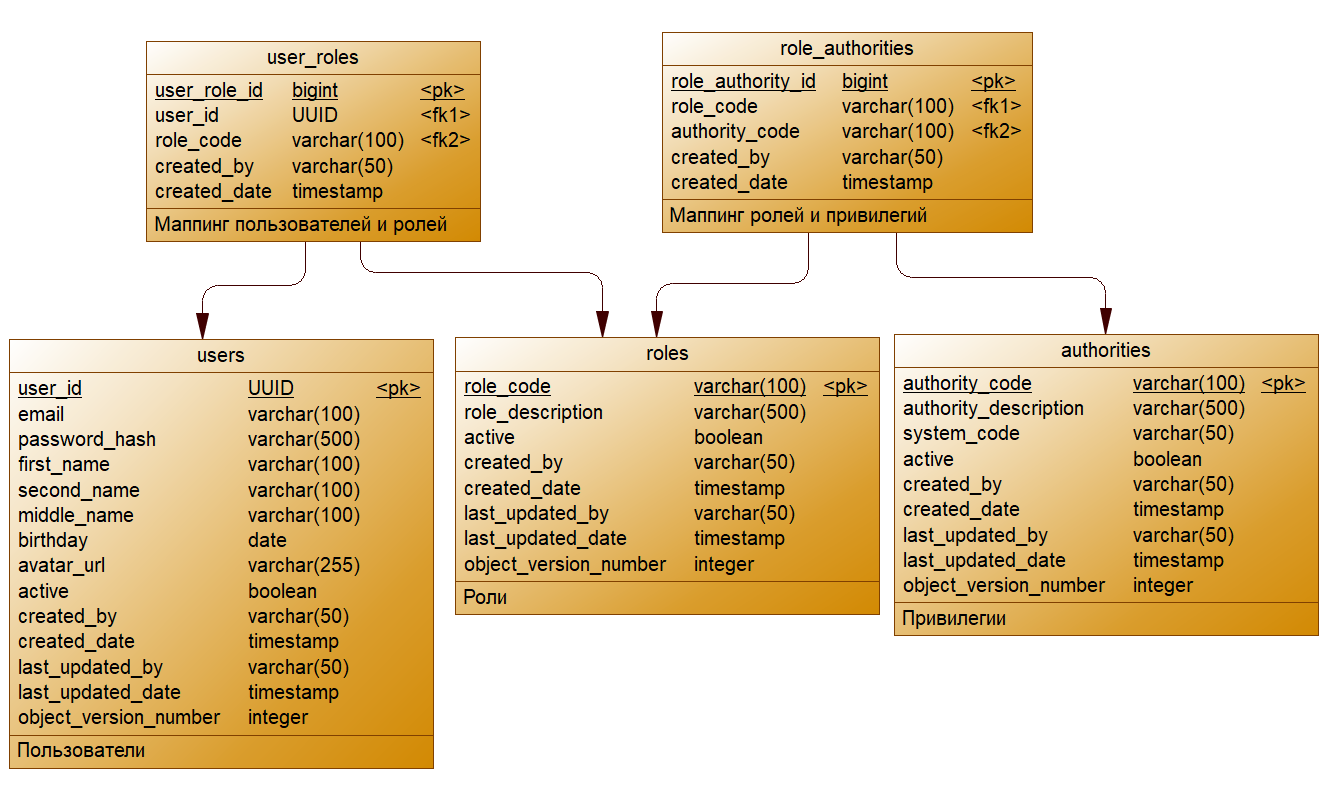
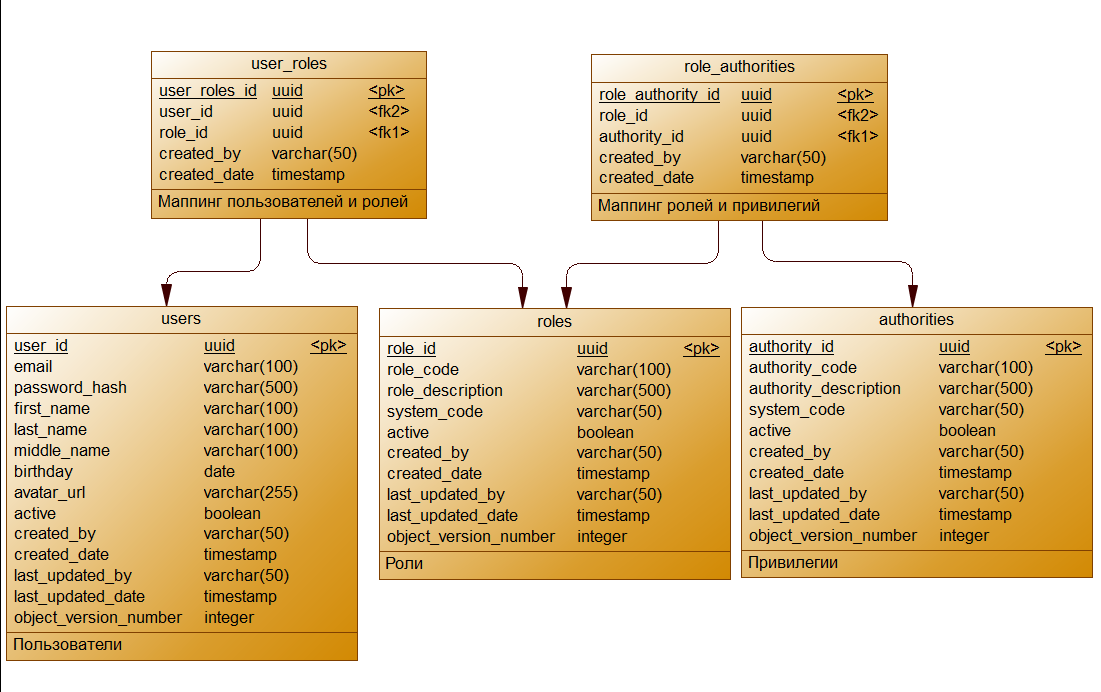
023. created a role model

diff --git a/j-sso/src/main/java/ru/dlabs/sas/example/jsso/dto/IntrospectionPrincipal.java b/j-sso/src/main/java/ru/dlabs/sas/example/jsso/dto/IntrospectionPrincipal.java
@@ -6,8 +6,10 @@ import lombok.Getter;
 import org.springframework.security.core.GrantedAuthority;
 
 import java.time.LocalDate;
-import java.util.Collection;
+import java.util.Collections;
+import java.util.List;
 import java.util.UUID;
+import java.util.stream.Collectors;
 
 @Getter
 @Builder
@@ -22,9 +24,22 @@ public class IntrospectionPrincipal {
     private String avatarUrl;
     private String username;
     private String email;
-    private Collection<? extends GrantedAuthority> authorities;
+    private List<String> authorities;
 
     public static IntrospectionPrincipal build(AuthorizedUser authorizedUser) {
+        if (authorizedUser == null) {
+            return null;
+        }
+
+        // создаём список строк из authorities в AuthorizedUser
+        List<String> authorities = Collections.emptyList();
+        if (authorizedUser.getAuthorities() != null) {
+            authorities = authorizedUser.getAuthorities()
+                    .stream()
+                    .map(GrantedAuthority::getAuthority)
+                    .collect(Collectors.toList());
+        }
+
         return IntrospectionPrincipal.builder()
                 .id(authorizedUser.getId())
                 .firstName(authorizedUser.getFirstName())
@@ -34,7 +49,8 @@ public class IntrospectionPrincipal {
                 .avatarUrl(authorizedUser.getAvatarUrl())
                 .username(authorizedUser.getUsername())
                 .email(authorizedUser.getEmail())
-                .authorities(authorizedUser.getAuthorities())
+                // сетим выше-созданный список привилегий
+                .authorities(authorities)
                 .build();
     }
 }

diff --git a/j-service/src/main/java/ru/dlabs/sas/example/jservice/dto/AuthorizedUser.java b/j-service/src/main/java/ru/dlabs/sas/example/jservice/dto/AuthorizedUser.java
@@ -2,12 +2,12 @@ package ru.dlabs.sas.example.jservice.dto;
 
 import lombok.*;
 import org.springframework.security.core.GrantedAuthority;
+import org.springframework.security.core.authority.SimpleGrantedAuthority;
 import org.springframework.security.oauth2.core.user.OAuth2User;
 
 import java.time.LocalDate;
-import java.util.Collection;
-import java.util.Map;
-import java.util.UUID;
+import java.util.*;
+import java.util.stream.Collectors;
 
 @Getter
 @Setter
@@ -30,6 +30,13 @@ public class AuthorizedUser implements OAuth2User {
         if (principal == null) {
             return null;
         }
+        List<GrantedAuthority> authorities = Collections.emptyList();
+        if (principal.getAuthorities() != null) {
+            authorities = principal.getAuthorities()
+                    .stream()
+                    .map(SimpleGrantedAuthority::new)
+                    .collect(Collectors.toList());
+        }
         return AuthorizedUser.builder()
                 .id(principal.getId())
                 .firstName(principal.getFirstName())
@@ -39,7 +46,7 @@ public class AuthorizedUser implements OAuth2User {
                 .avatarUrl(principal.getAvatarUrl())
                 .username(principal.getUsername())
                 .email(principal.getEmail())
-                .authorities(principal.getAuthorities())
+                .authorities(authorities)
                 .build();
     }
 

diff --git a/j-sso/src/main/java/ru/dlabs/sas/example/jsso/dao/entity/RoleEntity.java b/j-sso/src/main/java/ru/dlabs/sas/example/jsso/dao/entity/RoleEntity.java
@@ -6,6 +6,7 @@ import lombok.Setter;
 import ru.dlabs.sas.example.jsso.dao.entity.common.VersionedBusinessEntity;
 
 import java.util.List;
+import java.util.UUID;
 
 @Getter
 @Setter
@@ -14,17 +15,23 @@ import java.util.List;
 public class RoleEntity extends VersionedBusinessEntity<String> {
 
     @Id
+    @Column(name = "role_id", nullable = false)
+    @GeneratedValue(strategy = GenerationType.UUID)
+    private UUID id;
+
     @Column(name = "role_code", nullable = false)
     private String code;
+
     @Column(name = "role_description", nullable = false)
     private String description;
+
     @Column(name = "active")
     private Boolean active;
 
     @ManyToMany
     @JoinTable(schema = "sso", name = "role_authorities",
-            joinColumns = @JoinColumn(name = "role_code"),
-            inverseJoinColumns = @JoinColumn(name = "authority_code")
+            joinColumns = @JoinColumn(name = "role_id"),
+            inverseJoinColumns = @JoinColumn(name = "authority_id")
     )
     public List<AuthorityEntity> authorities;
 

diff --git a/j-sso/src/main/java/ru/dlabs/sas/example/jsso/config/security/SecurityConfig.java b/j-sso/src/main/java/ru/dlabs/sas/example/jsso/config/security/SecurityConfig.java
@@ -4,6 +4,7 @@ import lombok.RequiredArgsConstructor;
 import org.springframework.context.annotation.Bean;
 import org.springframework.context.annotation.Configuration;
 import org.springframework.security.config.annotation.authentication.builders.AuthenticationManagerBuilder;
+import org.springframework.security.config.annotation.method.configuration.EnableMethodSecurity;
 import org.springframework.security.config.annotation.web.builders.HttpSecurity;
 import org.springframework.security.config.annotation.web.configuration.EnableWebSecurity;
 import org.springframework.security.crypto.password.PasswordEncoder;
@@ -14,6 +15,7 @@ import ru.dlabs.sas.example.jsso.service.CustomUserDetailsService;
 import static org.springframework.security.config.Customizer.withDefaults;
 
 @EnableWebSecurity
+@EnableMethodSecurity
 @RequiredArgsConstructor
 @Configuration(proxyBeanMethods = false)
 public class SecurityConfig {

diff --git a/j-service/src/main/java/ru/dlabs/sas/example/jservice/config/ResourceServerConfig.java b/j-service/src/main/java/ru/dlabs/sas/example/jservice/config/ResourceServerConfig.java
@@ -4,6 +4,7 @@ import lombok.RequiredArgsConstructor;
 import org.springframework.context.annotation.Bean;
 import org.springframework.context.annotation.Configuration;
 import org.springframework.http.converter.json.MappingJackson2HttpMessageConverter;
+import org.springframework.security.config.annotation.method.configuration.EnableMethodSecurity;
 import org.springframework.security.config.annotation.web.builders.HttpSecurity;
 import org.springframework.security.config.annotation.web.configuration.EnableWebSecurity;
 import org.springframework.security.config.http.SessionCreationPolicy;
@@ -11,6 +12,7 @@ import org.springframework.security.web.SecurityFilterChain;
 import ru.dlabs.sas.example.jservice.config.introspector.CustomSpringTokenIntrospection;
 
 @Configuration
+@EnableMethodSecurity
 @EnableWebSecurity(debug = true)
 @RequiredArgsConstructor
 public class ResourceServerConfig {

diff --git a/j-sso/src/main/java/ru/dlabs/sas/example/jsso/dao/entity/AuthorityEntity.java b/j-sso/src/main/java/ru/dlabs/sas/example/jsso/dao/entity/AuthorityEntity.java
@@ -1,12 +1,11 @@
 package ru.dlabs.sas.example.jsso.dao.entity;
 
-import jakarta.persistence.Column;
-import jakarta.persistence.Entity;
-import jakarta.persistence.Id;
-import jakarta.persistence.Table;
+import jakarta.persistence.*;
 import lombok.Getter;
 import lombok.Setter;
 import ru.dlabs.sas.example.jsso.dao.entity.common.VersionedBusinessEntity;
+
+import java.util.UUID;
 
 @Getter
 @Setter
@@ -15,6 +14,10 @@ import ru.dlabs.sas.example.jsso.dao.entity.common.VersionedBusinessEntity;
 public class AuthorityEntity extends VersionedBusinessEntity<String> {
 
     @Id
+    @Column(name = "authority_id", nullable = false)
+    @GeneratedValue(strategy = GenerationType.UUID)
+    private UUID id;
+
     @Column(name = "authority_code", nullable = false)
     private String code;
 

diff --git a/j-sso/src/main/java/ru/dlabs/sas/example/jsso/controller/TestController.java b/j-sso/src/main/java/ru/dlabs/sas/example/jsso/controller/TestController.java
@@ -1,5 +1,6 @@
 package ru.dlabs.sas.example.jsso.controller;
 
+import org.springframework.security.access.prepost.PreAuthorize;
 import org.springframework.security.core.Authentication;
 import org.springframework.security.core.context.SecurityContextHolder;
 import org.springframework.web.bind.annotation.GetMapping;
@@ -9,6 +10,7 @@ import org.springframework.web.bind.annotation.RestController;
 public class TestController {
 
     @GetMapping("/test")
+    @PreAuthorize("hasAnyAuthority('GET_OWN_DATA')")
     public String test() {
         Authentication authentication = SecurityContextHolder.getContext().getAuthentication();
         return authentication.getName();

diff --git a/j-service/src/main/java/ru/dlabs/sas/example/jservice/controller/TestController.java b/j-service/src/main/java/ru/dlabs/sas/example/jservice/controller/TestController.java
@@ -1,5 +1,6 @@
 package ru.dlabs.sas.example.jservice.controller;
 
+import org.springframework.security.access.prepost.PreAuthorize;
 import org.springframework.security.core.context.SecurityContextHolder;
 import org.springframework.web.bind.annotation.GetMapping;
 import org.springframework.web.bind.annotation.RestController;
@@ -8,6 +9,7 @@ import org.springframework.web.bind.annotation.RestController;
 public class TestController {
 
     @GetMapping("/test")
+    @PreAuthorize("hasAnyAuthority('GET_OWN_DATA')")
     public Object test() {
         return SecurityContextHolder.getContext().getAuthentication().getPrincipal();
     }

diff --git a/j-service/src/main/java/ru/dlabs/sas/example/jservice/dto/IntrospectionPrincipal.java b/j-service/src/main/java/ru/dlabs/sas/example/jservice/dto/IntrospectionPrincipal.java
@@ -4,10 +4,9 @@ import lombok.AllArgsConstructor;
 import lombok.Builder;
 import lombok.Getter;
 import lombok.NoArgsConstructor;
-import org.springframework.security.core.GrantedAuthority;
 
 import java.time.LocalDate;
-import java.util.Collection;
+import java.util.List;
 import java.util.UUID;
 
 @Getter
@@ -24,5 +23,5 @@ public class IntrospectionPrincipal {
     private String avatarUrl;
     private String username;
     private String email;
-    private Collection<? extends GrantedAuthority> authorities;
+    private List<String> authorities;
 }

diff --git a/j-sso/src/main/java/ru/dlabs/sas/example/jsso/dao/entity/UserEntity.java b/j-sso/src/main/java/ru/dlabs/sas/example/jsso/dao/entity/UserEntity.java
@@ -39,7 +39,7 @@ public class UserEntity extends VersionedBusinessEntity<UUID> {
     @ManyToMany(cascade = CascadeType.MERGE)
     @JoinTable(schema = "sso", name = "user_roles",
             joinColumns = @JoinColumn(name = "user_id"),
-            inverseJoinColumns = @JoinColumn(name = "role_code")
+            inverseJoinColumns = @JoinColumn(name = "role_id")
     )
     public List<RoleEntity> roles;
 

diff --git a/j-service/src/main/java/ru/dlabs/sas/example/jservice/config/introspector/CustomOAuth2AuthenticatedPrincipal.java b/j-service/src/main/java/ru/dlabs/sas/example/jservice/config/introspector/CustomOAuth2AuthenticatedPrincipal.java
@@ -46,5 +46,7 @@ public class CustomOAuth2AuthenticatedPrincipal extends TokenInfoOAuth2ClaimAcce
     TokenInfoDto getTokenInfo() {
         return this.tokenInfo;
     }
+
+
 }
 
